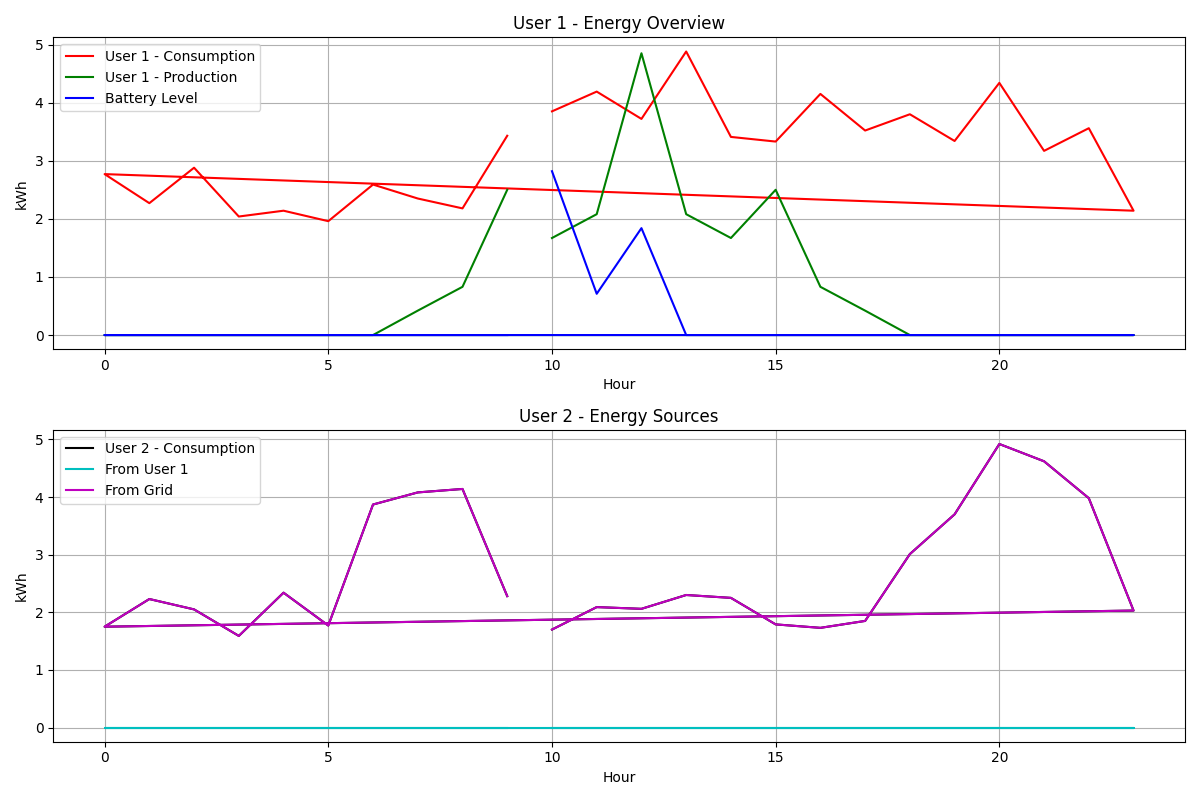
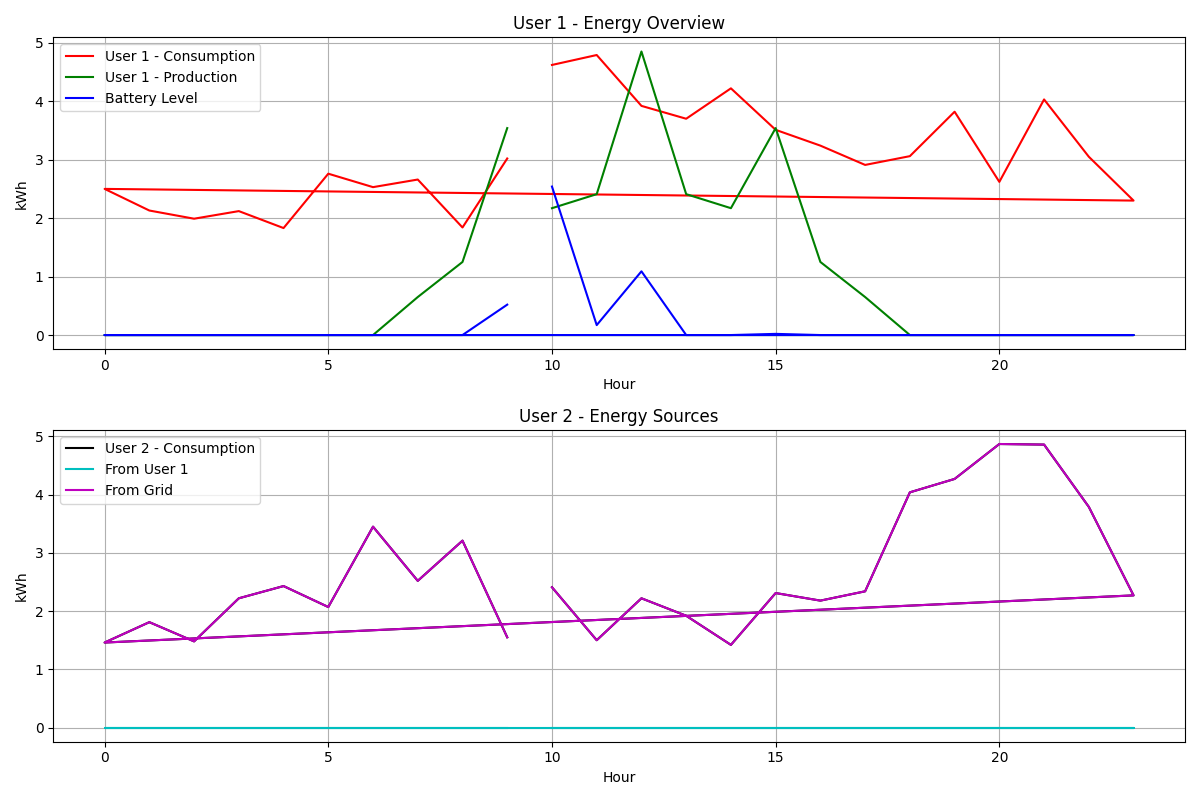
commit

diff --git a/energy_simulator_app/energy_simulatorV6.py b/energy_simulator_app/energy_simulatorV6.py
@@ -1,0 +1,180 @@
+import requests
+import time
+from datetime import datetime, timedelta
+import matplotlib.pyplot as plt
+import random
+from math import sin, pi
+
+# -----------------------------------
+# CONFIGURATION
+# -----------------------------------
+API_KEY = '1310cc9029637831bbb879313d029008'
+LAT = '26.9124'  # Jaipur latitude
+LON = '75.7873'  # Jaipur longitude
+SEASON = 'Summer'  # Options: Summer, Winter, Monsoon
+SIM_HOURS = 24
+SIM_INTERVAL = 1  # seconds per simulated hour
+
+# -----------------------------------
+# WEATHER DATA
+# -----------------------------------
+def get_weather_data():
+    url = f'https://api.openweathermap.org/data/2.5/forecast?lat={LAT}&lon={LON}&appid={API_KEY}'
+    res = requests.get(url)
+    if res.status_code != 200:
+        print("Weather API failed.")
+        return {hour: 50 for hour in range(24)}  # Default 50% cloud if API fails
+    data = res.json()
+    forecast = {}
+    for item in data['list']:
+        hour = datetime.utcfromtimestamp(item['dt']).hour
+        cloud_pct = item['clouds']['all']
+        forecast[hour] = cloud_pct
+    return forecast
+
+weather_forecast = get_weather_data()
+
+# -----------------------------------
+# USER PROFILES
+# -----------------------------------
+users = {
+    "user_1": {
+        "can_sell": True,
+        "has_solar": True,
+        "battery": 5,
+        "battery_capacity": 10,
+        "solar_capacity": 5,
+        "user_type": "Home Office"
+    },
+    "user_2": {
+        "can_sell": False,
+        "has_solar": False,
+        "battery": 0,
+        "battery_capacity": 0,
+        "user_type": "Day Worker"
+    }
+}
+
+# -----------------------------------
+# SEASON + TIME CONSUMPTION LOGIC
+# -----------------------------------
+def get_hour_factor(hour, season, user_type):
+    if user_type == "Home Office":
+        if 9 <= hour <= 17: base = 1.2
+        elif 18 <= hour <= 22: base = 1.1
+        else: base = 0.7
+    elif user_type == "Day Worker":
+        if 6 <= hour <= 8: base = 1.0
+        elif 18 <= hour <= 22: base = 1.3
+        else: base = 0.5
+    else: base = 1.0
+
+    if season == "Summer": base += 0.2
+    elif season == "Winter": base += 0.1 if hour >= 18 else -0.1
+
+    return base
+
+# -----------------------------------
+# REALISTIC SOLAR PRODUCTION
+# -----------------------------------
+def get_solar_production(hour, solar_capacity):
+    if 6 <= hour <= 18:
+        sunlight_curve = sin((pi / 12) * (hour - 6))  # peak at 12:00
+        cloud_factor = 1 - (weather_forecast.get(hour, 50) / 100)
+        return solar_capacity * sunlight_curve * cloud_factor
+    return 0
+
+# -----------------------------------
+# LOGGING & SIMULATION
+# -----------------------------------
+hours = []
+u1_consumption, u1_production, u1_battery, u1_sold = [], [], [], []
+u2_consumption, u2_from_user1, u2_from_grid = [], [], []
+
+start_time = datetime.now().replace(minute=0, second=0, microsecond=0)
+
+for hour in range(SIM_HOURS):
+    hr = (start_time + timedelta(hours=hour)).hour
+    print(f"⏳ Hour {hr}:00")
+
+    # --- USER 1 ---
+    u1 = users["user_1"]
+    c1 = random.uniform(2.0, 3.5) * get_hour_factor(hr, SEASON, u1['user_type'])
+    p1 = get_solar_production(hr, u1['solar_capacity'])
+    net1 = p1 - c1
+
+    to_sell = 0
+    if net1 > 0:
+        free_capacity = u1['battery_capacity'] - u1['battery']
+        to_battery = min(free_capacity, net1)
+        u1['battery'] += to_battery
+        # Only sell if battery is at least 30% full
+        if u1['battery'] > 0.3 * u1['battery_capacity']:
+            to_sell = net1 - to_battery
+    else:
+        need = abs(net1)
+        from_batt = min(need, u1['battery'])
+        u1['battery'] -= from_batt
+        from_grid = need - from_batt
+
+    # --- USER 2 ---
+    u2 = users["user_2"]
+    c2 = random.uniform(2.0, 3.5) * get_hour_factor(hr, SEASON, u2['user_type'])
+
+    if to_sell >= c2:
+        from_user1 = c2
+        from_grid2 = 0
+        to_sell -= c2
+    else:
+        from_user1 = to_sell
+        from_grid2 = c2 - from_user1
+        to_sell = 0
+
+    # --- LOGGING ---
+    hours.append(hr)
+    u1_consumption.append(round(c1, 2))
+    u1_production.append(round(p1, 2))
+    u1_battery.append(round(u1['battery'], 2))
+    u1_sold.append(round(to_sell, 2))
+
+    u2_consumption.append(round(c2, 2))
+    u2_from_user1.append(round(from_user1, 2))
+    u2_from_grid.append(round(from_grid2, 2))
+
+    time.sleep(SIM_INTERVAL)
+
+# -----------------------------------
+# PLOTTING
+# -----------------------------------
+def plot_smooth(data, label, color):
+    plt.plot(hours, data, label=label, color=color)
+
+plt.figure(figsize=(12, 8))
+
+# USER 1
+plt.subplot(2, 1, 1)
+plot_smooth(u1_consumption, 'User 1 - Consumption', 'r')
+plot_smooth(u1_production, 'User 1 - Production', 'g')
+plot_smooth(u1_battery, 'Battery Level', 'b')
+plt.title("User 1 - Energy Overview")
+plt.xlabel("Hour")
+plt.ylabel("kWh")
+plt.legend()
+plt.grid(True)
+
+# USER 2
+plt.subplot(2, 1, 2)
+plot_smooth(u2_consumption, 'User 2 - Consumption', 'k')
+plot_smooth(u2_from_user1, 'From User 1', 'c')
+plot_smooth(u2_from_grid, 'From Grid', 'm')
+plt.title("User 2 - Energy Sources")
+plt.xlabel("Hour")
+plt.ylabel("kWh")
+plt.legend()
+plt.grid(True)
+
+plt.tight_layout()
+plt.savefig("realistic_energy_simulation.png")
+plt.show()
+
+print("✅ Simulation complete. Graph saved as 'realistic_energy_simulation.png'")

diff --git a/energy_simulator_app/energy_simulatorV7.py b/energy_simulator_app/energy_simulatorV7.py
@@ -1,0 +1,173 @@
+import requests
+import time
+from datetime import datetime, timedelta
+import matplotlib.pyplot as plt
+import random
+from math import sin, pi
+
+# --------------------
+# CONFIGURATION
+# --------------------
+API_KEY = '1310cc9029637831bbb879313d029008'  # Replace with your real API key
+LAT, LON = '26.9124', '75.7873'  # Jaipur coordinates
+SEASON = 'Summer'
+SIM_HOURS = 24
+SIM_INTERVAL = 1  # seconds
+
+# --------------------
+# WEATHER DATA
+# --------------------
+def get_weather_data():
+    url = f'https://api.openweathermap.org/data/2.5/forecast?lat={LAT}&lon={LON}&appid={API_KEY}'
+    res = requests.get(url)
+    if res.status_code != 200:
+        print("⚠ Weather API failed. Using default cloud values.")
+        return {hour: 50 for hour in range(24)}
+    data = res.json()
+    forecast = {}
+    for item in data['list']:
+        hour = datetime.utcfromtimestamp(item['dt']).hour
+        forecast[hour] = item['clouds']['all']
+    return forecast
+
+weather_forecast = get_weather_data()
+
+# --------------------
+# USER PROFILES
+# --------------------
+users = {
+    "user_1": {
+        "can_sell": True,
+        "has_solar": True,
+        "battery": 5,
+        "battery_capacity": 10,
+        "solar_capacity": 6,  # Boosted from 5
+        "user_type": "Home Office"
+    },
+    "user_2": {
+        "can_sell": False,
+        "has_solar": False,
+        "battery": 0,
+        "battery_capacity": 0,
+        "user_type": "Day Worker"
+    }
+}
+
+# --------------------
+# BEHAVIOR FUNCTIONS
+# --------------------
+def get_hour_factor(hour, season, user_type):
+    if user_type == "Home Office":
+        base = 1.2 if 9 <= hour <= 17 else 1.1 if 18 <= hour <= 22 else 0.7
+    elif user_type == "Day Worker":
+        base = 1.0 if 6 <= hour <= 8 else 1.3 if 18 <= hour <= 22 else 0.5
+    else:
+        base = 1.0
+
+    if season == "Summer":
+        base += 0.2
+    elif season == "Winter":
+        base += 0.1 if hour >= 18 else -0.1
+
+    return base
+
+def get_solar_production(hour, solar_capacity):
+    if 6 <= hour <= 18:
+        sunlight_curve = sin((pi / 12) * (hour - 6))
+        cloud_factor = 1 - (weather_forecast.get(hour, 50) / 100)
+        return solar_capacity * sunlight_curve * cloud_factor
+    return 0
+
+# --------------------
+# LOGGING SETUP
+# --------------------
+hours = []
+u1_consumption, u1_production, u1_battery, u1_sold = [], [], [], []
+u2_consumption, u2_from_user1, u2_from_grid = [], [], []
+
+# --------------------
+# SIMULATION LOOP
+# --------------------
+start_time = datetime.now().replace(minute=0, second=0, microsecond=0)
+
+for h in range(SIM_HOURS):
+    hr = (start_time + timedelta(hours=h)).hour
+    print(f"⏳ Simulating Hour {hr}:00")
+
+    # USER 1
+    u1 = users["user_1"]
+    c1 = random.uniform(2.0, 3.5) * get_hour_factor(hr, SEASON, u1['user_type'])
+    p1 = get_solar_production(hr, u1['solar_capacity'])
+    net1 = p1 - c1
+
+    to_sell = 0
+    if net1 > 0:
+        to_battery = min(net1, u1['battery_capacity'] - u1['battery'])
+        u1['battery'] += to_battery
+        if u1['battery'] > 0.1 * u1['battery_capacity']:  # Lowered threshold
+            to_sell = net1 - to_battery
+    else:
+        demand = abs(net1)
+        from_batt = min(demand, u1['battery'])
+        u1['battery'] -= from_batt
+        from_grid = demand - from_batt
+
+    # USER 2
+    u2 = users["user_2"]
+    c2 = random.uniform(2.0, 3.5) * get_hour_factor(hr, SEASON, u2['user_type'])
+
+    if to_sell >= c2:
+        from_user1 = c2
+        from_grid2 = 0
+        to_sell -= c2
+    else:
+        from_user1 = to_sell
+        from_grid2 = c2 - from_user1
+        to_sell = 0
+
+    # LOGGING
+    print(f"[User 1] Prod: {p1:.2f}, Cons: {c1:.2f}, Batt: {u1['battery']:.2f}, Sold: {to_sell:.2f}")
+    print(f"[User 2] Cons: {c2:.2f}, From U1: {from_user1:.2f}, From Grid: {from_grid2:.2f}")
+
+    hours.append(hr)
+    u1_consumption.append(round(c1, 2))
+    u1_production.append(round(p1, 2))
+    u1_battery.append(round(u1['battery'], 2))
+    u1_sold.append(round(to_sell, 2))
+
+    u2_consumption.append(round(c2, 2))
+    u2_from_user1.append(round(from_user1, 2))
+    u2_from_grid.append(round(from_grid2, 2))
+
+    time.sleep(SIM_INTERVAL)
+
+# --------------------
+# PLOTTING
+# --------------------
+plt.figure(figsize=(12, 8))
+
+plt.subplot(2, 1, 1)
+plt.plot(hours, u1_consumption, 'r-', label="User 1 - Consumption")
+plt.plot(hours, u1_production, 'g-', label="User 1 - Production")
+plt.plot(hours, u1_battery, 'b-', label="Battery Level")
+plt.title("User 1 - Energy Overview")
+plt.xlabel("Hour")
+plt.ylabel("kWh")
+plt.grid(True)
+plt.legend()
+
+plt.subplot(2, 1, 2)
+plt.plot(hours, u2_consumption, 'k-', label="User 2 - Consumption")
+plt.plot(hours, u2_from_user1, 'c-', label="From User 1")
+plt.plot(hours, u2_from_grid, 'm-', label="From Grid")
+plt.title("User 2 - Energy Sources")
+plt.xlabel("Hour")
+plt.ylabel("kWh")
+plt.grid(True)
+plt.legend()
+
+plt.tight_layout()
+plt.savefig("enhanced_energy_simulation.png")
+plt.show()
+
+print("✅ Simulation complete. Graph saved as 'enhanced_energy_simulation.png'")
